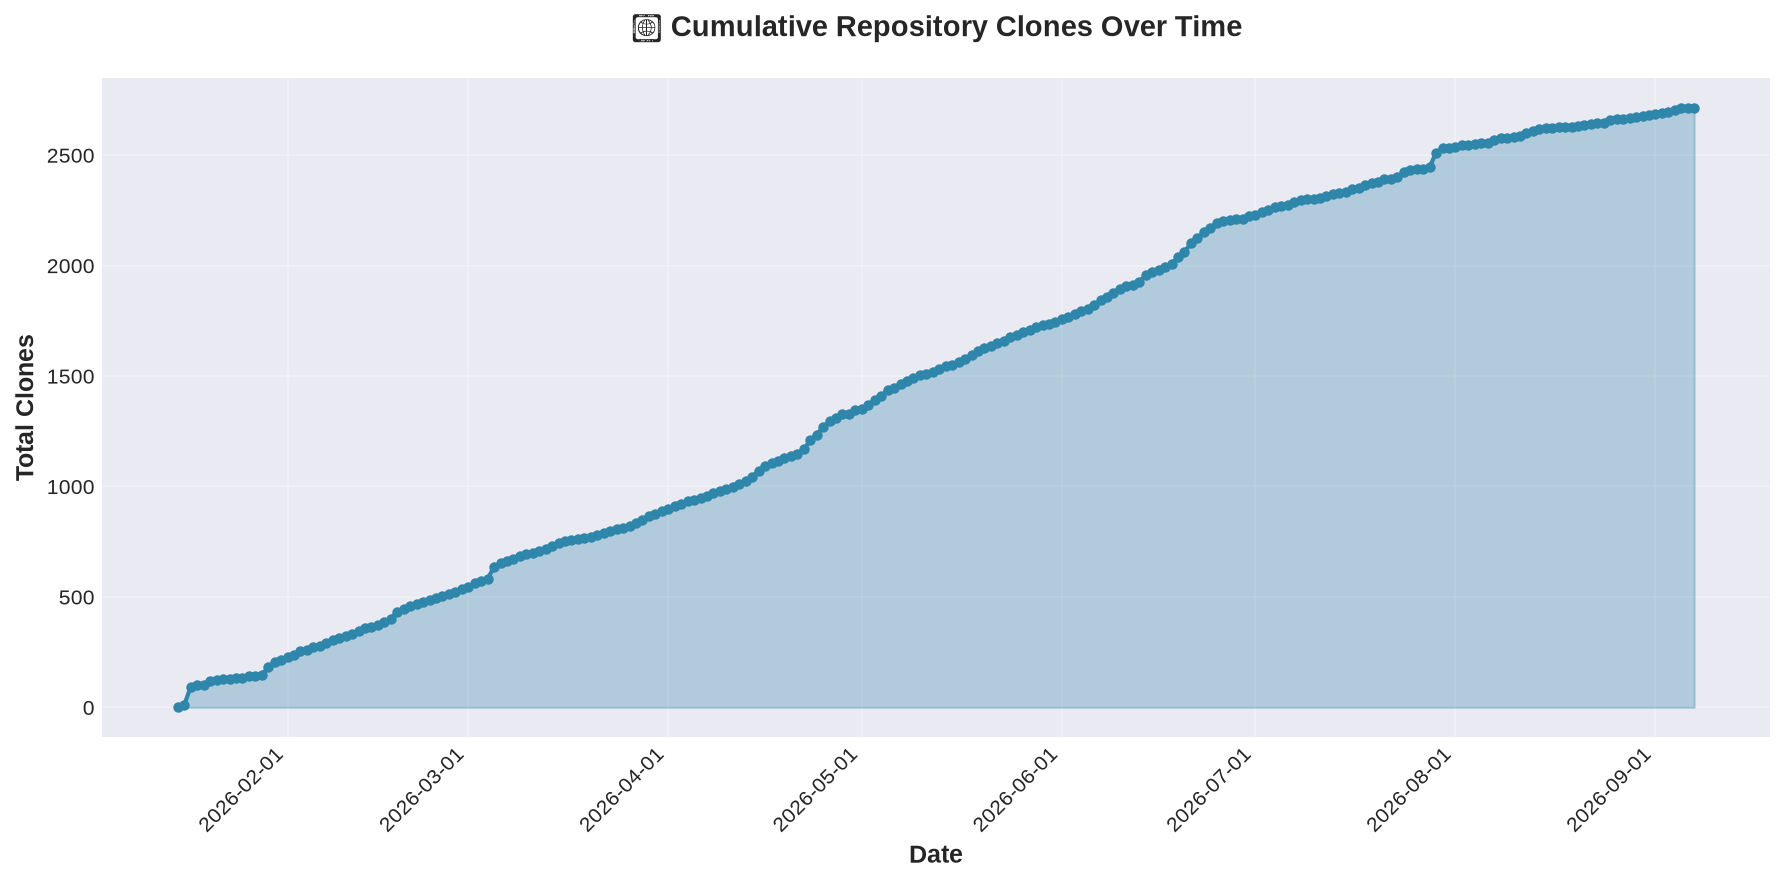
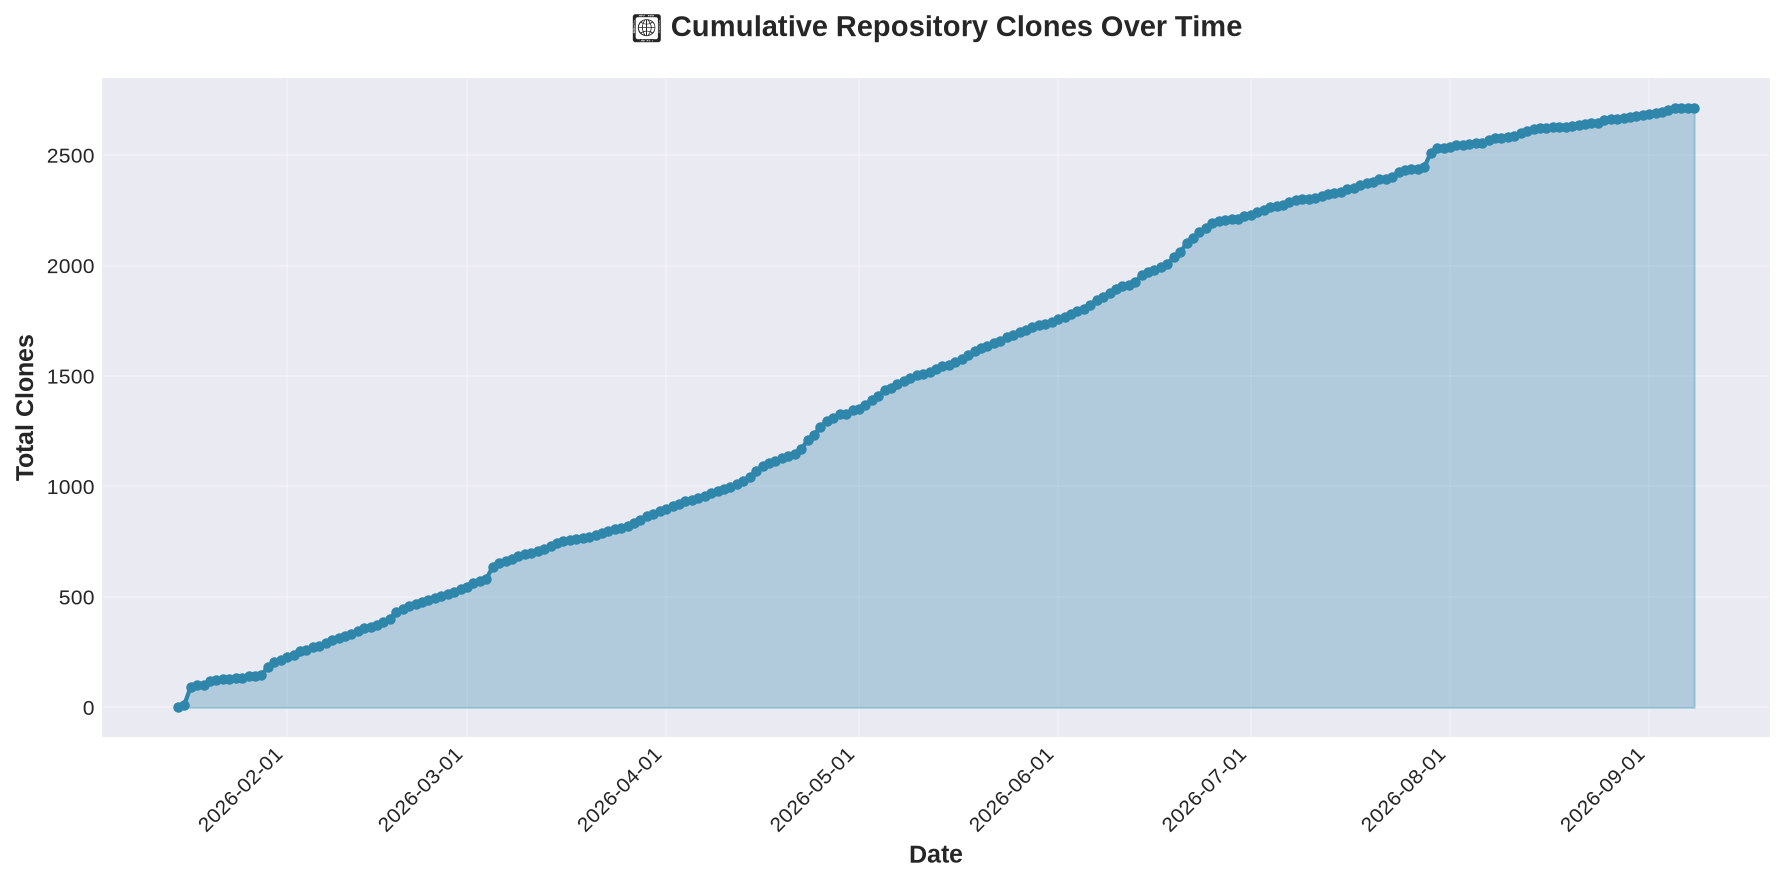
📊 Update clone statistics - 2026-09-08

diff --git a/graphs/STATS_SUMMARY.md b/graphs/STATS_SUMMARY.md
@@ -1,9 +1,9 @@
 # 📊 Clone Statistics Summary
-**Last Updated:** 2026-09-07T03:16:05.525132
+**Last Updated:** 2026-09-08T03:23:38.952945
 
 ## Overall Statistics
 - **Total Clones (All Time):** 2,714
-- **Days Tracked:** 236
+- **Days Tracked:** 237
 - **Average Daily Clones:** 11.5
 
 ## Repository Statistics
